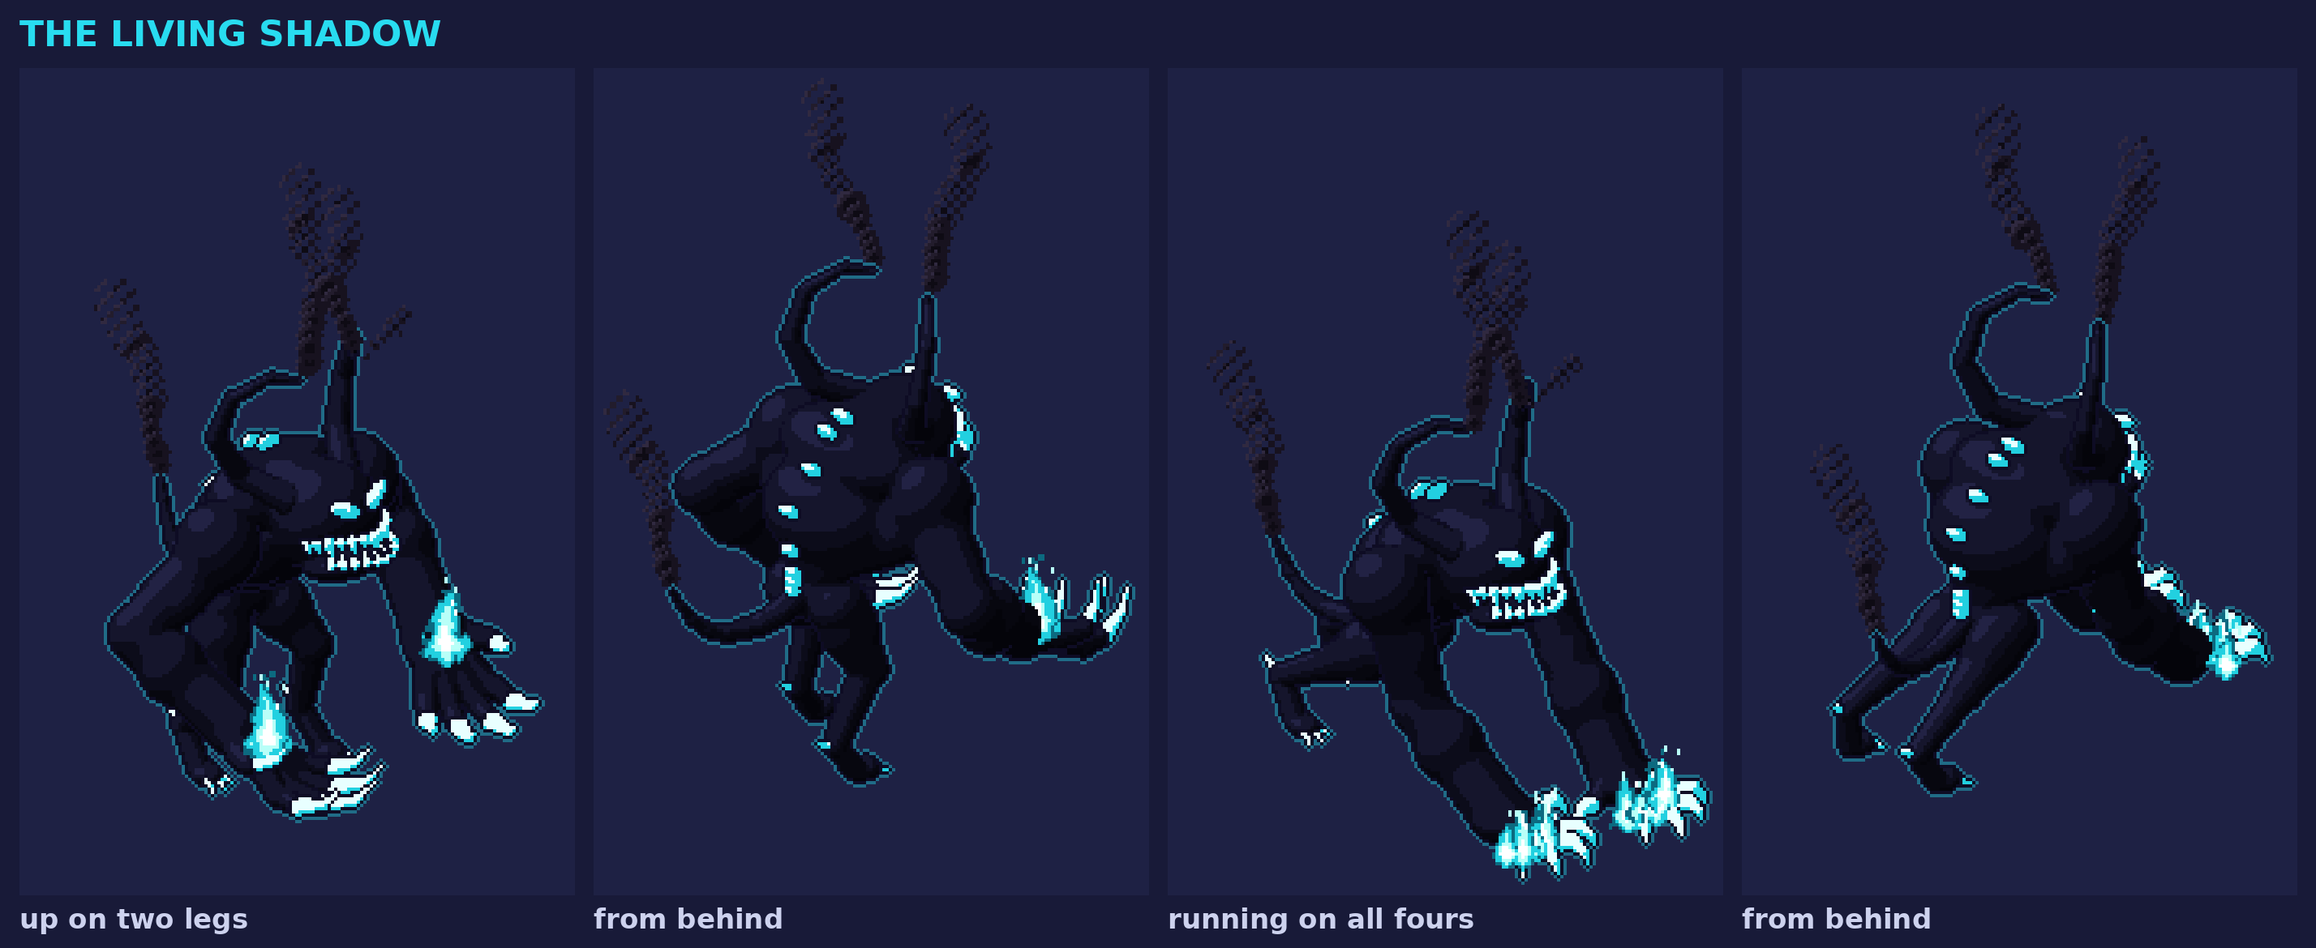
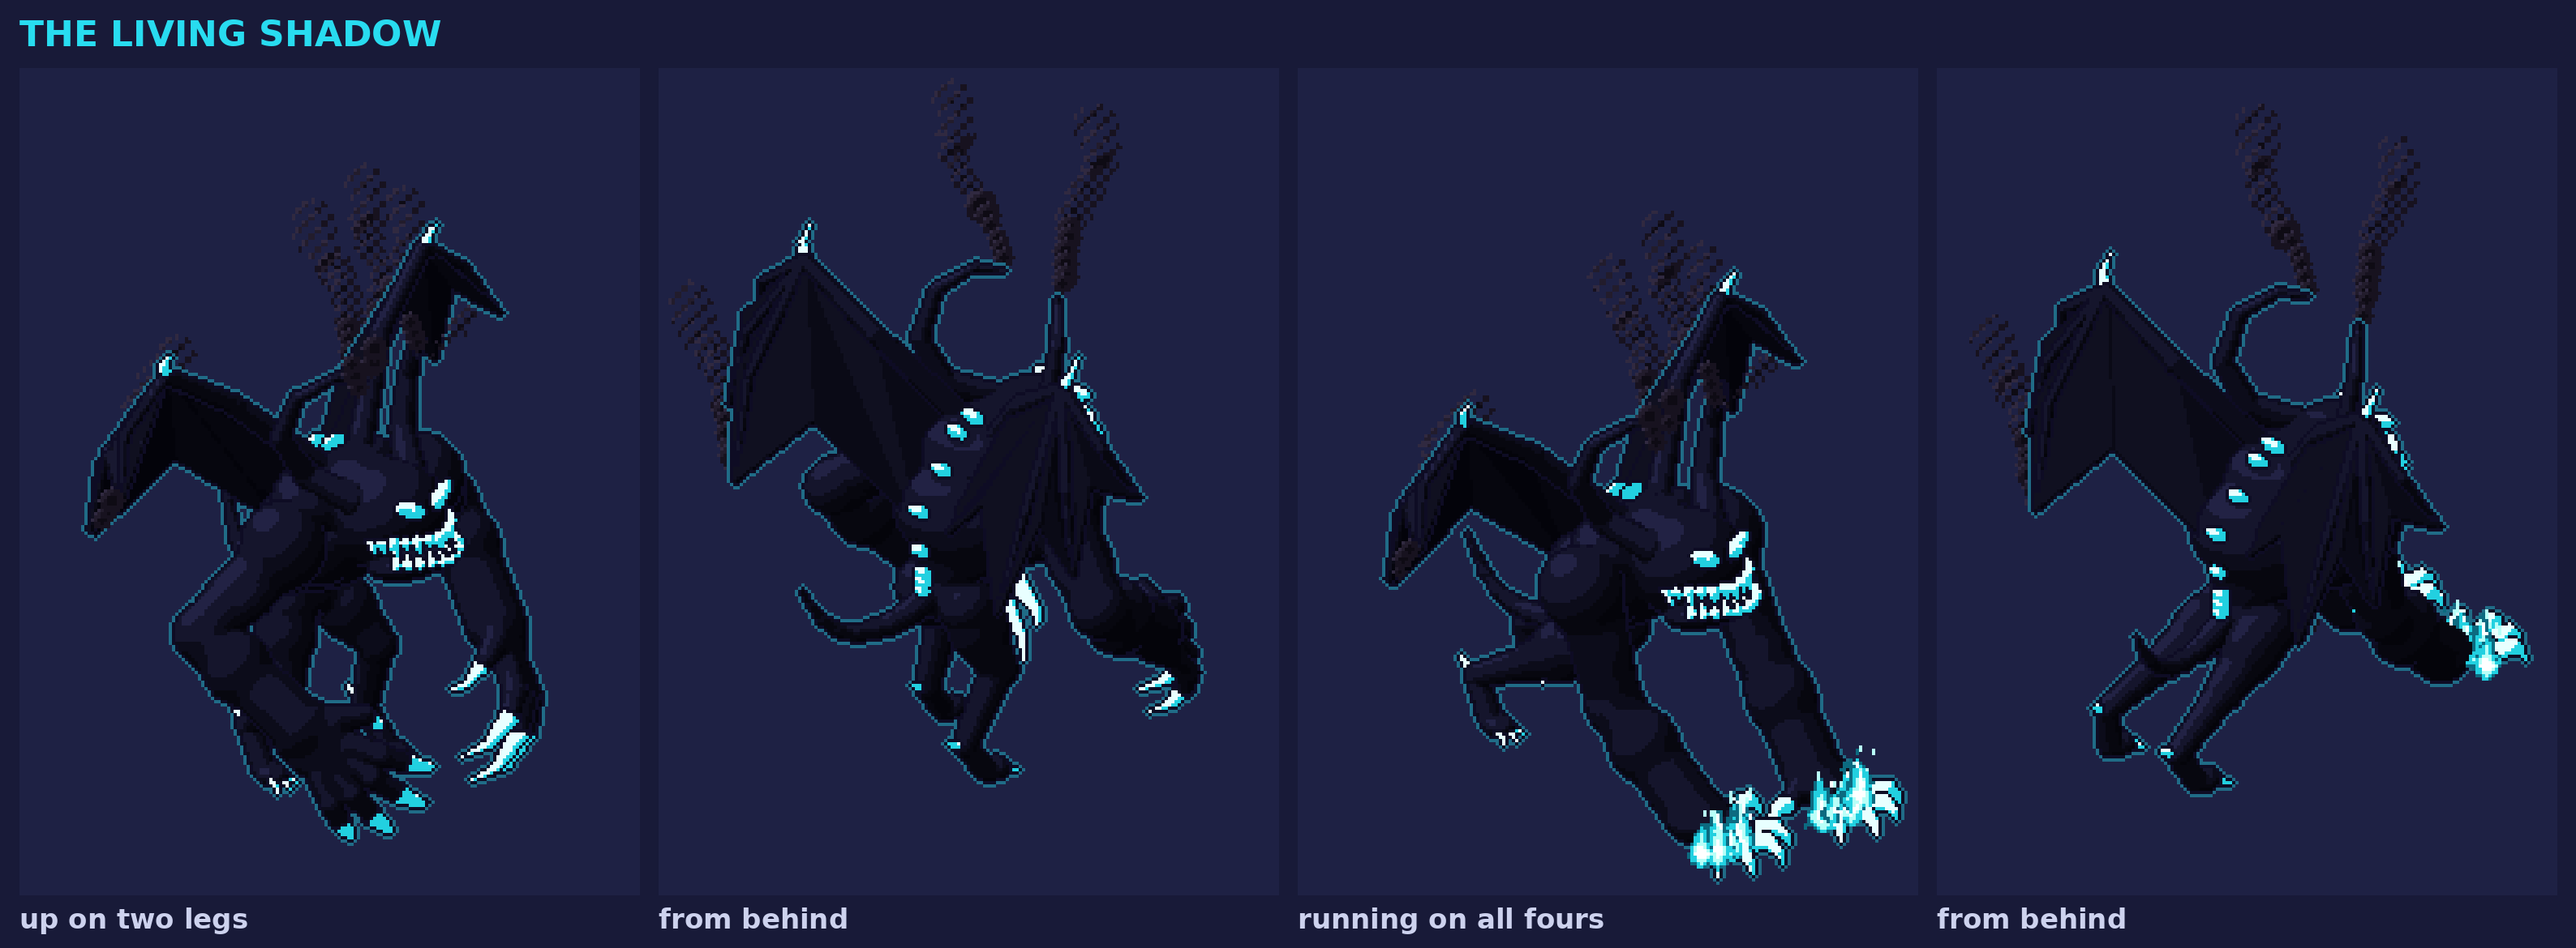
The Living Shadow: its claws hung with no fire in them, wings of smoke tried on it
His words, 11 Nov 2026: "Add wings"; 18:39, "I dont like the palms up double fire hands". Up on two legs each claw hangs, its palm turned back and in, only its talons burning; SHADOW_WINGS, of its own black, bowed and scalloped; the pictures made again (docs/mockups/warlock_up2/README.md).

Claude-Session: https://claude.ai/code/session_01JYSqoVCyrBtLKksDvfh6Tj

diff --git a/src/dev/demon_ideas.ts b/src/dev/demon_ideas.ts
@@ -90,19 +90,26 @@ function teeth(h: Head, mat: number, n: number, span: number, cf: number, rf: nu
  * over and outside its shoulder, three fingers hanging from it down and back, the skin between them bellied out and its edge
  * drawn up in a scallop between each two tips; never one flat sheet.
  */
-function cloakWings(k: Kit, skin: number, bone: number, talon: number, fr: Frame, size: number): void {
+function cloakWings(k: Kit, skin: number, bone: number, talon: number, fr: Frame, size: number, open = 1): V3[] {
   const { sc } = k;
+  const ends: V3[] = [];
   for (const side of [1, -1] as const) {
     const piece = side > 0 ? 'wingL' : 'wingR';
     const R = add(fr.spine(0.5), [0, side * 8, 0]);
-    const E = add(R, mul([-10, side * 12, 18], size));
-    const W = add(E, mul([-4, side * 13, 13], size));
-    const tips: V3[] = [add(W, mul([5, side * 14, -22], size)), add(W, mul([-10, side * 10, -38], size)), add(W, mul([-21, side * 1, -48], size))];
+    const E = add(R, mul([-10, side * 12 * open, 18], size));
+    const W = add(E, mul([-4, side * 13 * open, 13], size));
+    const tips: V3[] = [add(W, mul([5, side * 14 * open, -22], size)), add(W, mul([-10, side * 10 * open, -38], size)), add(W, mul([-21, side * 1, -48], size))];
+    ends.push(...tips);
     const B = add(fr.spine(1.7), [-2, side * 5, 0]);
     sc.cone(bone, piece, R, E, 3.2, 2.5, 0.8, { tag: 'wingarm' });
     sc.cone(bone, piece, E, W, 2.5, 1.9, 0.6, { tag: 'wingarm' });
     spike(k, talon, piece, [W, add(W, [1, side * 2, 5]), add(W, [4, side * 2, 9])], 1.6, 'claw');
-    for (const tp of tips) sc.cone(bone, piece, W, tp, 1.6, 0.5, 0.3, { tag: 'finger' });
+    // (each finger bowed, not a straight rod)
+    for (const tp of tips) {
+      const mid = add(lerp3(W, tp, 0.55), [-3 * size, side * 2.5 * size, 2 * size]);
+      sc.cone(bone, piece, W, mid, 1.6, 1.1, 0.3, { tag: 'finger' });
+      sc.cone(bone, piece, mid, tp, 1.1, 0.4, 0.3, { tag: 'finger' });
+    }
     const edge: V3[] = [...tips, B];
     for (let i = 0; i + 1 < edge.length; i++) {
       const P = edge[i];
@@ -110,13 +117,14 @@ function cloakWings(k: Kit, skin: number, bone: number, talon: number, fr: Frame
       let n = norm(cross(sub(P, W), sub(Q, W)));
       if (n[0] > 0) n = mul(n, -1);
       // (the middle of its edge drawn up toward the wrist, a scallop; the skin bellied out behind)
-      const M = add(lerp3(lerp3(P, Q, 0.5), W, 0.24), mul(n, 3.2 * size));
+      const M = add(lerp3(lerp3(P, Q, 0.5), W, 0.36), mul(n, 5 * size));
       sc.tri(skin, piece, W, P, M, 0.7, 0.5, { tag: 'membrane' });
       sc.tri(skin, piece, W, M, Q, 0.7, 0.5, { tag: 'membrane' });
     }
     sc.tri(skin, piece, E, W, B, 0.7, 0.5, { tag: 'membrane' });
     sc.tri(skin, piece, R, E, B, 0.7, 0.5, { tag: 'membrane' });
   }
+  return ends;
 }
 
 const out0 = (k: Kit): Built => ({ floor: [], flames: [], smoke: [], jaw: k.s.head });
@@ -319,6 +327,8 @@ function idea5(k: Kit): Built {
 // grin of teeth of light from ear to ear, its claws. Two horns curled like smoke; a tail that thins away into smoke; its
 // smoke rising off its horns, its shoulders and its back. FROM BEHIND it has no face to be known by, so his fire shows down
 // its backbone: an ember in each knuckle of it.
+/** Whether the Living Shadow has its wings (his pick, 11 Nov, shown it without: “Add wings”, offered as wings of smoke, to be shown him before its moves). */
+export const SHADOW_WINGS = { on: true };
 export function shadowInto(k: Kit): Built {
   const { sc } = k;
   const o = out0(k);
@@ -373,6 +383,14 @@ export function shadowInto(k: Kit): Built {
     hsc.cone(glow, 'grin', lo, add(lo, mul(F[2], (i % 2 ? 2.2 : 3.2) * HEAD_K)), 1.15, 0.12, 0.1, { tag: 'fang' });
   }
   o.smoke = [tips[0], tips[1], pts[pts.length - 1]];
+  // WINGS OF SMOKE: of its own black, half open and raised over its shoulders, each finger bowed and the skin between
+  // bellied and scalloped (never a flat sheet: his words of the game's, 26 and 27 Oct); a talon of his light at each wrist;
+  // their tips trailing away into smoke
+  if (SHADOW_WINGS.on) {
+    const wing = sc.mat({ ramp: ['#03030a', '#06060e', '#0a0a16', '#101020', '#181830'], crease: 0.2 });
+    const ends = cloakWings(k, wing, hide, glow, fr, 1.2, 1.35);
+    o.smoke = [tips[0], tips[1], ends[2], ends[5]];
+  }
   return o;
 }
 const idea6 = shadowInto;

diff --git a/src/dev/demon_new.ts b/src/dev/demon_new.ts
@@ -201,7 +201,7 @@ function openClaw(k: Kit, hide: number, talon: number, piece: string, ha: V3, el
 /**
  * Its two claws. On the floor (or running on them), flat and spread, his fire under each palm licking out between its fingers
  * (dev/sculpt_demon.ts demonHand: a hand built as a hand, his word of 24 Oct; the fire his of 27 Oct). Off the floor, up on
- * two legs: a hand of claws held open (`openClaw`), its palm turned up and forward, his fire in it.
+ * two legs: a hand of long claws hung open (`openClaw`), its palm turned back and in; no fire in it.
  */
 export function claws(k: Kit, hide: number, talon: number, scale: number, out: Built): void {
   const { s, sc } = k;
@@ -212,9 +212,10 @@ export function claws(k: Kit, hide: number, talon: number, scale: number, out: B
     const el = side > 0 ? s.elbowL : s.elbowR;
     const planted = k.paws || ha[2] < 14;
     if (!planted) {
-      const palmWay = norm(add(mul(fh, 0.75), add([0, 0, 0.55], mul(cross(U, fh), -side * 0.35))));
-      const palm = openClaw(k, hide, talon, piece, ha, el, palmWay, 2.7 * scale, side < 0);
-      out.flames.push({ p: add(palm, mul(palmWay, 4 * scale)), size: 4.4 * scale, deep: 14 });
+      // (HIS WORD, 11 Nov, of the claws first drawn turned up with a fire in each: “I dont like the palms up double fire hands”.
+      // So: hung as a claw hangs, its palm turned back and in, its fingers hooked; no fire in it: its talons are what burn)
+      const palmWay = norm(add(mul(fh, -0.8), add([0, 0, -0.15], mul(cross(U, fh), -side * 0.55))));
+      openClaw(k, hide, talon, piece, ha, el, palmWay, 2.7 * scale, side < 0);
       continue;
     }
     const up = Math.max(0, ha[2] - 7);

diff --git a/docs/mockups/warlock_up2/README.md b/docs/mockups/warlock_up2/README.md
@@ -150,6 +150,19 @@ big, 2856 x 1170), `living_shadow_at_game_size.png` (beside the Brawler, the War
 with: `npx tsx tools/demon_new_pics.ts <dir> shadow` then
 `python3 tools/demon_new_pics.py <dir> docs/mockups/warlock_up2/pictures shadow`.
 
+SHOWN HIM SO (without wings, its claws turned up with a fire in each), asked whether it was the Living Shadow he wanted
+(offered: yes, build its moves; close, change something; add wings). HIS WORDS, 11 Nov:
+
+- His pick: **“Add wings”** (offered as: wings of smoke tried on it, shown him before its moves).
+- 18:39: **“I dont like the palms up double fire hands”**
+
+Read as, and told him so: no upturned palms and no flame in each hand; its claws hang ready to slash, only their talons
+burning. DONE (`dev/demon_new.ts` claws, openClaw: up on two legs each hand hangs as a claw hangs, its palm turned back and
+in, its fingers hooked; no fire in it. Running, his fire is still under each claw on the floor, his own word of 27 Oct).
+WINGS OF SMOKE TRIED (`SHADOW_WINGS`, `cloakWings`): of its own black, half open and raised over its shoulders, each finger
+bowed, the skin between bellied and deeply scalloped, a talon of his light at each wrist, their outer tips trailing away
+into smoke. The pictures above are made again with both.
+
 TO THINK ON (his own tick of 11 Nov, “His body is a dark lump”): this one is dark on purpose, and is known by its outline (the
 friend's cyan edge), its horns and what burns. To be looked at on the game's own floors beside the Brawler before it is
 called done: if its body is lost on a dark floor, the answer is more of his light on it (its embers, an edge of light on its
